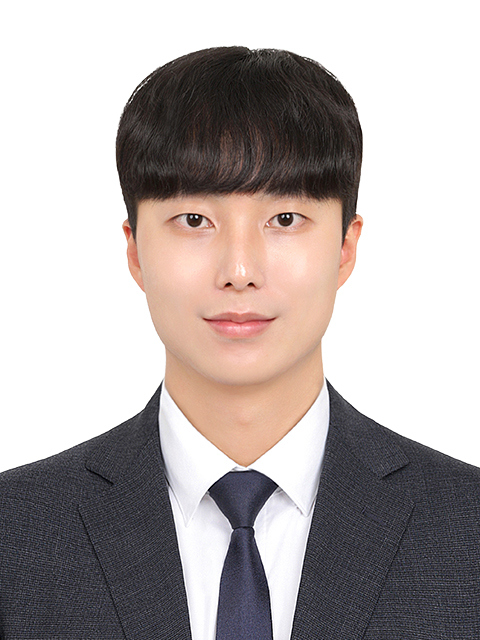
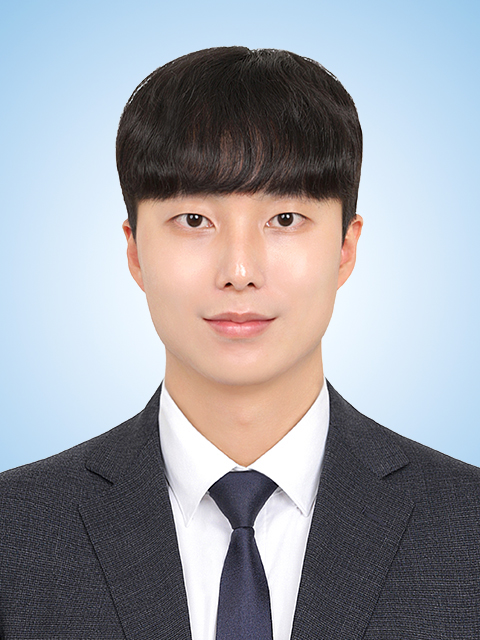
[feat] - 헤더 디자인 수정 및 마이페이지 바 구현'

diff --git a/components/common/header/Header.tsx b/components/common/header/Header.tsx
@@ -1,5 +1,7 @@
 "use client";
 
+import { Button } from "@/components/ui/button/Button";
+import SideMenuBar from "@/features/mypage/components/SideMenuBar";
 import { Bell } from "lucide-react";
 import Image from "next/image";
 import Link from "next/link";
@@ -9,59 +11,83 @@ import { useState } from "react";
 const Header = () => {
   const pathname = usePathname();
   const [isLogin, setLogin] = useState(false);
+  const [isVisible, setVisible] = useState(false);
 
   return (
     <>
-      <header className="c1 bg-bg-default flex h-17.5 w-full items-center border-b-gray-300 px-10">
-        <div className="relative aspect-[3/2] h-full">
-          <Link href="/">
-            <Image src="/logo.png" fill className="object-fill" alt="로고" />
-          </Link>
-        </div>
-        <div className="flex-1"></div>
-        <div className="flex items-center justify-center gap-10">
-          <Link
-            className={`${pathname.startsWith("/question") ? "font-bold" : "font-normal"}`}
-            href={`/question`}
-          >
-            면접 질문
-          </Link>
-          <Link
-            className={`${pathname.startsWith("/interview") ? "font-bold" : "font-normal"}`}
-            href={`/interview`}
-          >
-            면접 연습
-          </Link>
-          <Link
-            className={`${pathname.startsWith("/review") ? "font-bold" : "font-normal"}`}
-            href={`/review`}
-          >
-            면접 후기
-          </Link>
-          <Link
-            className={`${pathname.startsWith("/community") ? "font-bold" : "font-normal"}`}
-            href={`/community`}
-          >
-            커뮤니티
-          </Link>
-        </div>
-        <div className="flex-1"></div>
-        <div className="flex items-center justify-end gap-8">
-          <Bell className="cursor-pointer" onClick={() => setLogin(!isLogin)} />
-          {isLogin ? (
-            <div className="relative h-12 w-12 overflow-hidden rounded-full">
-              <Image
-                className="object-contain"
-                src="/profile.jpg"
-                fill
-                alt="프로필"
-              />
+      <div className="relative w-full">
+        <header className="c1 bg-bg-light flex h-17.5 items-center border-b border-b-gray-300 px-10">
+          <div className="relative aspect-[3/2] h-full">
+            <Link href="/">
+              <Image src="/logo.png" fill className="object-fill" alt="로고" />
+            </Link>
+          </div>
+          <div className="flex-1"></div>
+          <div className="text-gray-1000 flex items-center justify-center gap-10">
+            <Link
+              className={`${pathname.startsWith("/question") ? "font-bold" : "font-normal"}`}
+              href={`/question`}
+            >
+              면접 질문
+            </Link>
+            <Link
+              className={`${pathname.startsWith("/interview") ? "font-bold" : "font-normal"}`}
+              href={`/interview`}
+            >
+              면접 연습
+            </Link>
+            <Link
+              className={`${pathname.startsWith("/review") ? "font-bold" : "font-normal"}`}
+              href={`/review`}
+            >
+              면접 후기
+            </Link>
+            <Link
+              className={`${pathname.startsWith("/community") ? "font-bold" : "font-normal"}`}
+              href={`/community`}
+            >
+              커뮤니티
+            </Link>
+          </div>
+          <div className="flex-1"></div>
+          <div className="flex w-1/6 min-w-40 flex-none justify-center">
+            {isLogin ? (
+              <div className="flex items-center gap-8">
+                <Bell
+                  className="text-icon-default cursor-pointer"
+                  onClick={() => setLogin(!isLogin)}
+                />
+                <div
+                  onClick={() => setVisible(!isVisible)}
+                  className="relative h-12 w-12 cursor-pointer overflow-hidden rounded-full"
+                >
+                  <Image
+                    className="object-contain"
+                    src="/profile.jpg"
+                    fill
+                    alt="프로필"
+                  />
+                </div>
+              </div>
+            ) : (
+              <div className="flex items-center gap-4">
+                <Button onClick={() => setLogin(!isLogin)}>로그인</Button>
+                <Button>회원가입</Button>
+              </div>
+            )}
+          </div>
+        </header>
+        {isVisible && (
+          <div className="absolute top-21 right-10 z-50 h-fit w-fit rounded-xl border border-gray-300 p-4 shadow-md">
+            <SideMenuBar />
+            <div className="-mx-4 -mb-4">
+              <Button className="text-tag-text-gray h-11 w-full bg-gray-100 text-xs">
+                로그아웃
+              </Button>
             </div>
-          ) : (
-            <></>
-          )}
-        </div>
-      </header>
+          </div>
+        )}
+      </div>
     </>
   );
 };

diff --git a/features/mypage/components/SideMenuBar.tsx b/features/mypage/components/SideMenuBar.tsx
@@ -1,0 +1,35 @@
+"use client";
+
+import { Bookmark, Bot, FolderOpen, Settings, Users } from "lucide-react";
+
+const SideMenuBar = () => {
+  return (
+    <>
+      <aside className="flex h-fit w-38.5 flex-col">
+        <div className="ditems-center flex h-8 w-full justify-between border-b border-b-gray-300 pb-2">
+          <p className="text-button-sm font-bold text-gray-800">마이페이지</p>
+          <Settings className="text-icon-default" height={20} width={20} />
+        </div>
+        <div className="flex h-fit w-full flex-col gap-2 py-4">
+          <div className="bg-bg-deep flex h-7 w-full items-center gap-5 px-2.5 py-1.5">
+            <Bookmark className="text-icon-default" width={20} height={20} />
+            <p className="text-button-sm text-gray-800">저장된 질문</p>
+          </div>
+          <div className="flex h-7 w-full items-center gap-5 px-2.5 py-1.5">
+            <Bot className="text-icon-default" width={20} height={20} />
+            <p className="text-button-sm text-gray-800">픽봇 AI 면접</p>
+          </div>
+          <div className="flex h-7 w-full items-center gap-5 px-2.5 py-1.5">
+            <Users className="text-icon-default" width={20} height={20} />
+            <p className="text-button-sm text-gray-800">커뮤니티</p>
+          </div>
+          <div className="flex h-7 w-full items-center gap-5 px-2.5 py-1.5">
+            <FolderOpen className="text-icon-default" width={20} height={20} />
+            <p className="text-button-sm text-gray-800">프로젝트</p>
+          </div>
+        </div>
+      </aside>
+    </>
+  );
+};
+export default SideMenuBar;

diff --git a/components/ui/button/Button.tsx b/components/ui/button/Button.tsx
@@ -5,7 +5,7 @@ import { cva, type VariantProps } from "class-variance-authority";
 import { cn } from "@/lib/utils";
 
 const buttonVariants = cva(
-  "cursor-pointer inline-flex items-center justify-center gap-2 whitespace-nowrap rounded-md font-medium transition-all disabled:pointer-events-none disabled:opacity-50 [&_svg]:pointer-events-none [&_svg:not([class*='size-'])]:size-4 shrink-0 [&_svg]:shrink-0 outline-none focus-visible:border-ring focus-visible:ring-ring/50 focus-visible:ring-[3px] aria-invalid:ring-destructive/20 dark:aria-invalid:ring-destructive/40 aria-invalid:border-destructive",
+  "cursor-pointer inline-flex items-center justify-center gap-2 whitespace-nowrap rounded-xl font-medium transition-all disabled:pointer-events-none disabled:opacity-50 [&_svg]:pointer-events-none [&_svg:not([class*='size-'])]:size-4 shrink-0 [&_svg]:shrink-0 outline-none focus-visible:border-ring focus-visible:ring-ring/50 focus-visible:ring-[3px] aria-invalid:ring-destructive/20 dark:aria-invalid:ring-destructive/40 aria-invalid:border-destructive",
   {
     variants: {
       variant: {
